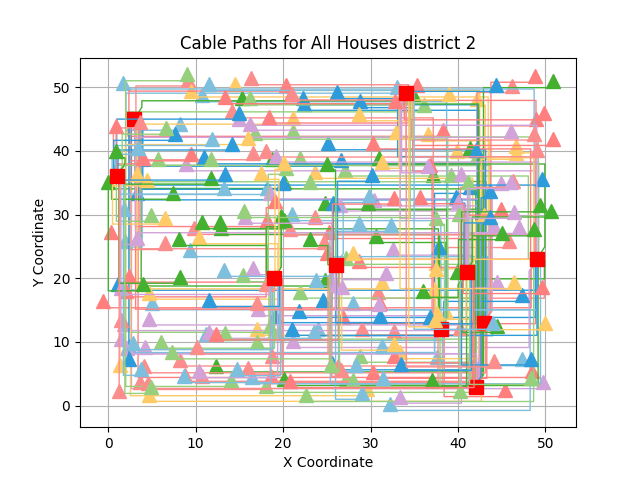
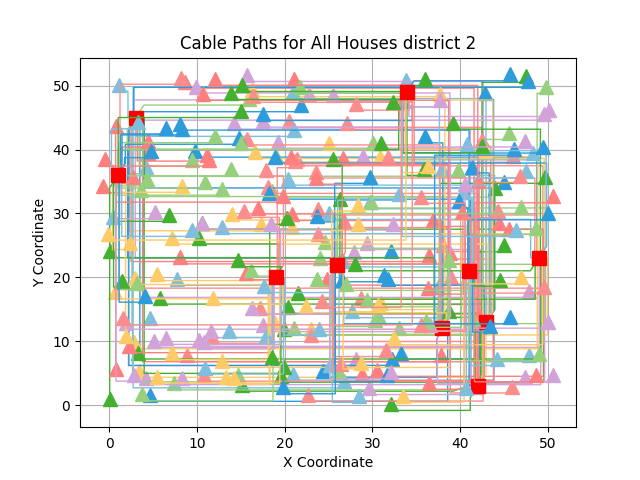
parameter tuning

diff --git a/main.py b/main.py
@@ -15,7 +15,7 @@ if __name__ == "__main__":
 
     # --------------------------- Random --------------------------
     data = mr.Random_to_Random(district_1)
-    data.district_copy.plot_cables()
+    data.random_solution()
     # random_solution_district_1 = mr.random_solution(district_1)
     # print(random_solution_district_1.district.calculate_own_costs())
     
@@ -31,18 +31,18 @@ if __name__ == "__main__":
     # plt.savefig('plot.png')
 
     # --------------------------- Random to Greedy --------------------------
-    random_solution_district_1 = rtg.RandomGreedy(district_2)
+    random_solution_district_1 = rtg.RandomGreedy(district_1)
     random_solution_district_1.greedy_solution()
-    random_solution_district_1.district.plot_cables()
+    # random_solution_district_1.district.plot_cables()
     # random_solution_district_1.district.output()
     # --------------------------- Greedy --------------------------
     # gr_1 = gr.Greedy(district_1)
     # gr_1.greedy_solution()
 
     # --------------------------- Random to Hillclimber -----------------------------
-    # hillclimber_1 = hc.Hillclimber(random_solution_district_1.district)
-    # hillclimber_1.run(10000, True)
+    hillclimber_1 = hc.Hillclimber(random_solution_district_1.district)
+    hillclimber_1.run(4000, True)
 
     # --------------------------- Random to Simulated Annealing ---------------------
-    sc_1 = sc.SimulatedAnnealing(random_solution_district_1.district)
-    sc_1.run(20000, True)
+    # sc_1 = sc.SimulatedAnnealing(random_solution_district_1.district)
+    # sc_1.run(5000, True)

diff --git a/code/algorithms/simulatedannealing.py b/code/algorithms/simulatedannealing.py
@@ -5,7 +5,7 @@ from .hillclimber import Hillclimber
 
 class SimulatedAnnealing(Hillclimber):
 
-    def __init__(self, district, temperature = 1000):
+    def __init__(self, district, temperature = 200):
         super().__init__(district)
 
         self.T0 = temperature
@@ -14,7 +14,7 @@ class SimulatedAnnealing(Hillclimber):
     def update_temperature(self):
 
         # self.T = self.T - (self.T0 / self.iterations)
-        cooling_factor = 0.95  # You can adjust this value
+        cooling_factor = 0.999  # You can adjust this value
         self.T = self.T * cooling_factor
 
     def check_solution(self, new_district):
